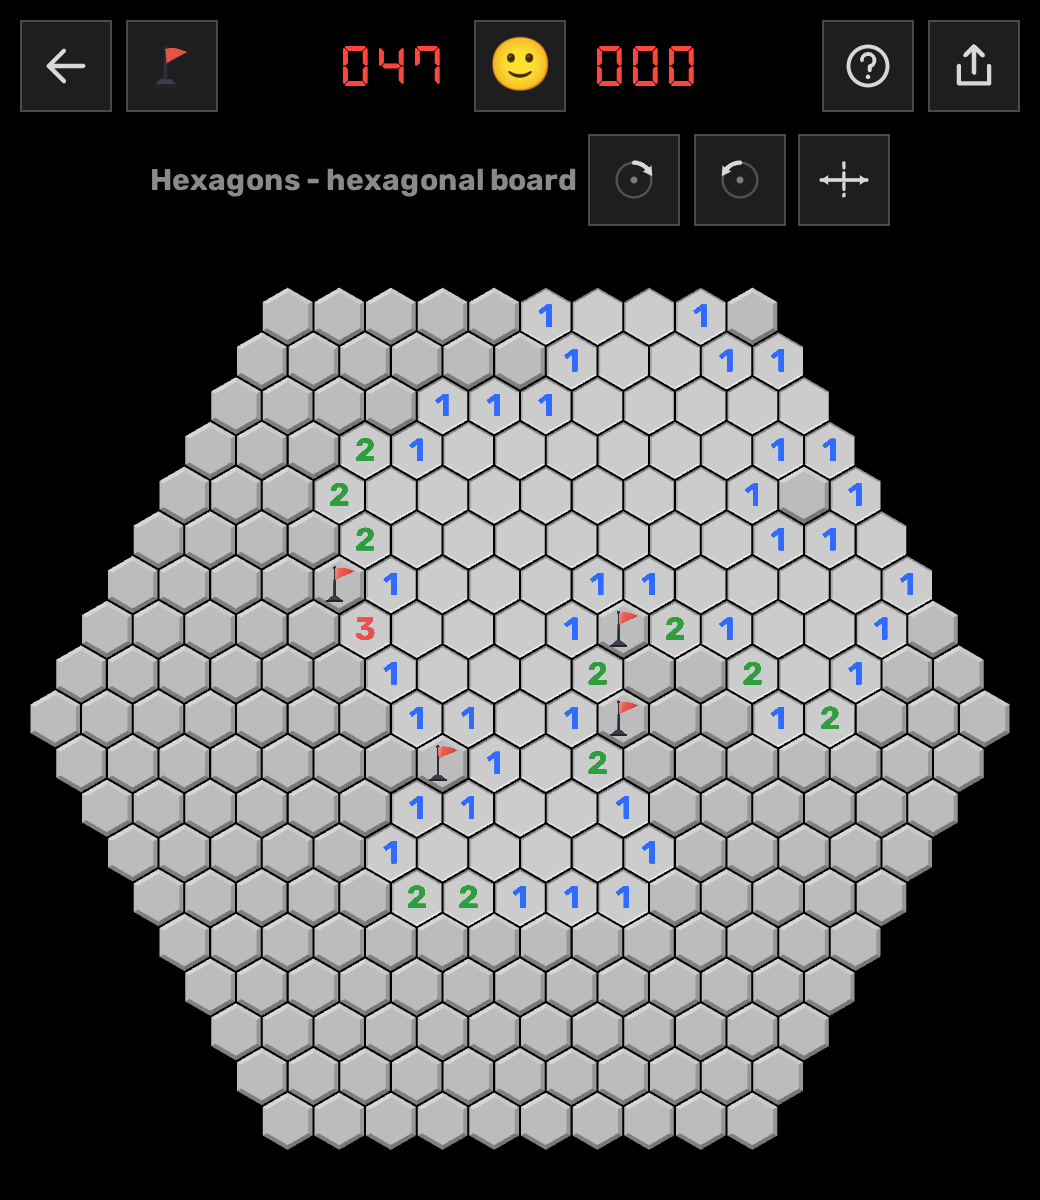
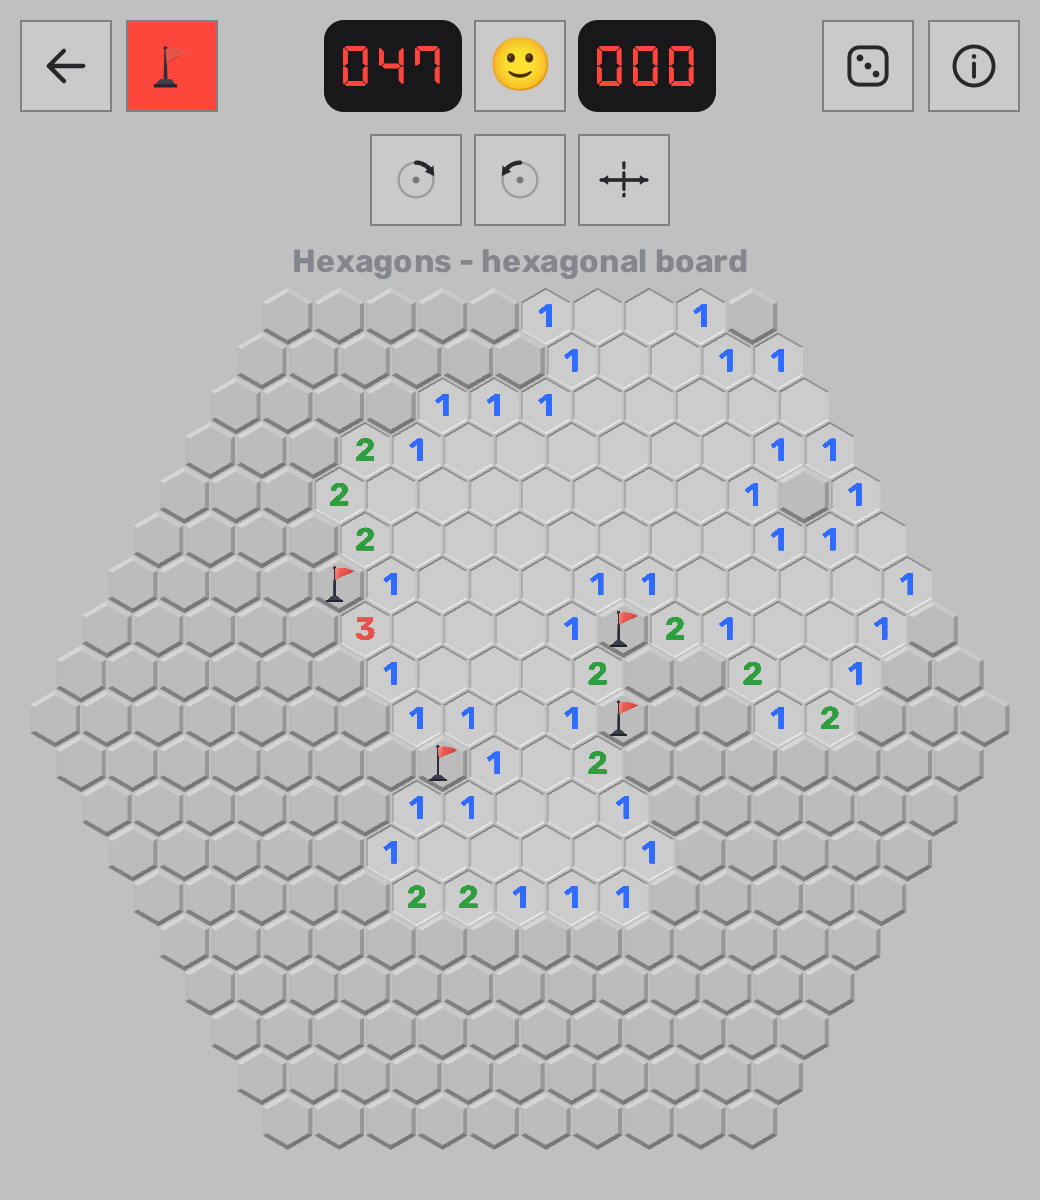
README gallery: 3D pins on the boards you can turn
The three 3D shots — the Goldberg sphere, the Möbius strip and the torus
mid-explosion — all showed flat flag billboards, pictures lying in the face
of a cell rather than objects standing on it.

3D markers are not a setting of their own: they are `CellStyle.solidMarkers`,
and Realistic is the only style that asks for them. All three shots were on
Flat or Classic, so none of them could ever have shown a pin. Move them to
Realistic, which also brings the spiked bombs to the torus loss shot and a hot
one on the cell that went off, and rebalance `gosper` (Flat) and `hexhex`
(Classic) so every theme still appears in the gallery.

The four Realistic shots switch `backgrounds` on, a new per-shot field: the
page behind the board is patterned with that board's own tiling, and on
`penrose` it shows through the translucent opened cells too.

`mobiushex` drops to `easy`. A medium strip is 28x9 hexagons and a pin is
sized off its cell's inradius, so the markers came out four pixels across —
the shot would have shown nothing the billboards did not.

The social card is rendered from the same sphere and had the same problem,
through a stale v3 record naming a theme that migrates to Flat; it moves to
Realistic too. That takes it from 110 KB to ~950 KB, so exclude it from the
service-worker precache: `og.png` is named only in the `og:image` meta tag,
so nothing but a crawler ever fetches it, and the app shell was carrying a
[…]

diff --git a/web/vite.config.ts b/web/vite.config.ts
@@ -236,7 +236,14 @@ export default defineConfig({
         // property of the worker rather than of the URL the caller happens to
         // build.) Keeping workbox's own default beside it, which naming this
         // option would otherwise drop.
-        globIgnores: ["**/node_modules/**/*", "version.json"],
+        //
+        // And the link-preview card, which is not part of the app shell at all:
+        // `og.png` is named only in the `og:image` meta tag, so the one thing
+        // that ever fetches it is a crawler on the open network. A copy in the
+        // precache is bytes every visitor downloads and no visitor uses — and
+        // since the card is rendered from the Realistic theme, whose page is
+        // full-frame turbulence, it is very nearly a megabyte of them.
+        globIgnores: ["**/node_modules/**/*", "version.json", "og.png"],
         // The Pages Function under /api/ is the one path that is not part of
         // the app shell. A POST is not a navigation request, so today's config
         // already leaves it alone; this says so, and keeps it true if the

diff --git a/README.md b/README.md
@@ -9,19 +9,19 @@ Actions; installable, and it works offline once loaded)
 
 <table>
   <tr>
-    <td align="center"><img src="docs/screenshots/c180.png" width="380"><br>Goldberg GP(3,0) on a sphere <sub>· Light</sub></td>
-    <td align="center"><img src="docs/screenshots/mobiushex.png" width="380"><br>Hexagons on a Möbius strip <sub>· Dark</sub></td>
+    <td align="center"><img src="docs/screenshots/c180.png" width="380"><br>Goldberg GP(3,0) on a sphere <sub>· Realistic, light</sub></td>
+    <td align="center"><img src="docs/screenshots/mobiushex.png" width="380"><br>Hexagons on a Möbius strip <sub>· Realistic, dark</sub></td>
   </tr>
   <tr>
-    <td align="center"><img src="docs/screenshots/penrose.png" width="380"><br>Penrose rhombi <sub>· Realistic</sub></td>
-    <td align="center"><img src="docs/screenshots/torussnubsquare-lost.png" width="380"><br>Snub square on a donut, boom <sub>· Classic</sub></td>
+    <td align="center"><img src="docs/screenshots/penrose.png" width="380"><br>Penrose rhombi <sub>· Realistic, light</sub></td>
+    <td align="center"><img src="docs/screenshots/torussnubsquare-lost.png" width="380"><br>Snub square on a donut, boom <sub>· Realistic, dark</sub></td>
   </tr>
   <tr>
-    <td align="center"><img src="docs/screenshots/gosper.png" width="380"><br>Hexagons in a Gosper island <sub>· Realistic</sub></td>
-    <td align="center"><img src="docs/screenshots/hexhex.png" width="380"><br>A hexagon of hexagons <sub>· Light</sub></td>
+    <td align="center"><img src="docs/screenshots/gosper.png" width="380"><br>Hexagons in a Gosper island <sub>· Flat, dark</sub></td>
+    <td align="center"><img src="docs/screenshots/hexhex.png" width="380"><br>A hexagon of hexagons <sub>· Classic, light</sub></td>
   </tr>
   <tr>
-    <td align="center"><img src="docs/screenshots/menu.png" width="380"><br>The menu <sub>· Dark</sub></td>
+    <td align="center"><img src="docs/screenshots/menu.png" width="380"><br>The menu <sub>· Realistic, dark</sub></td>
     <td align="center"><img src="docs/screenshots/themes.png" width="380"><br>Three themes — the page and how a cell is cut — over three colour schemes</td>
   </tr>
 </table>
